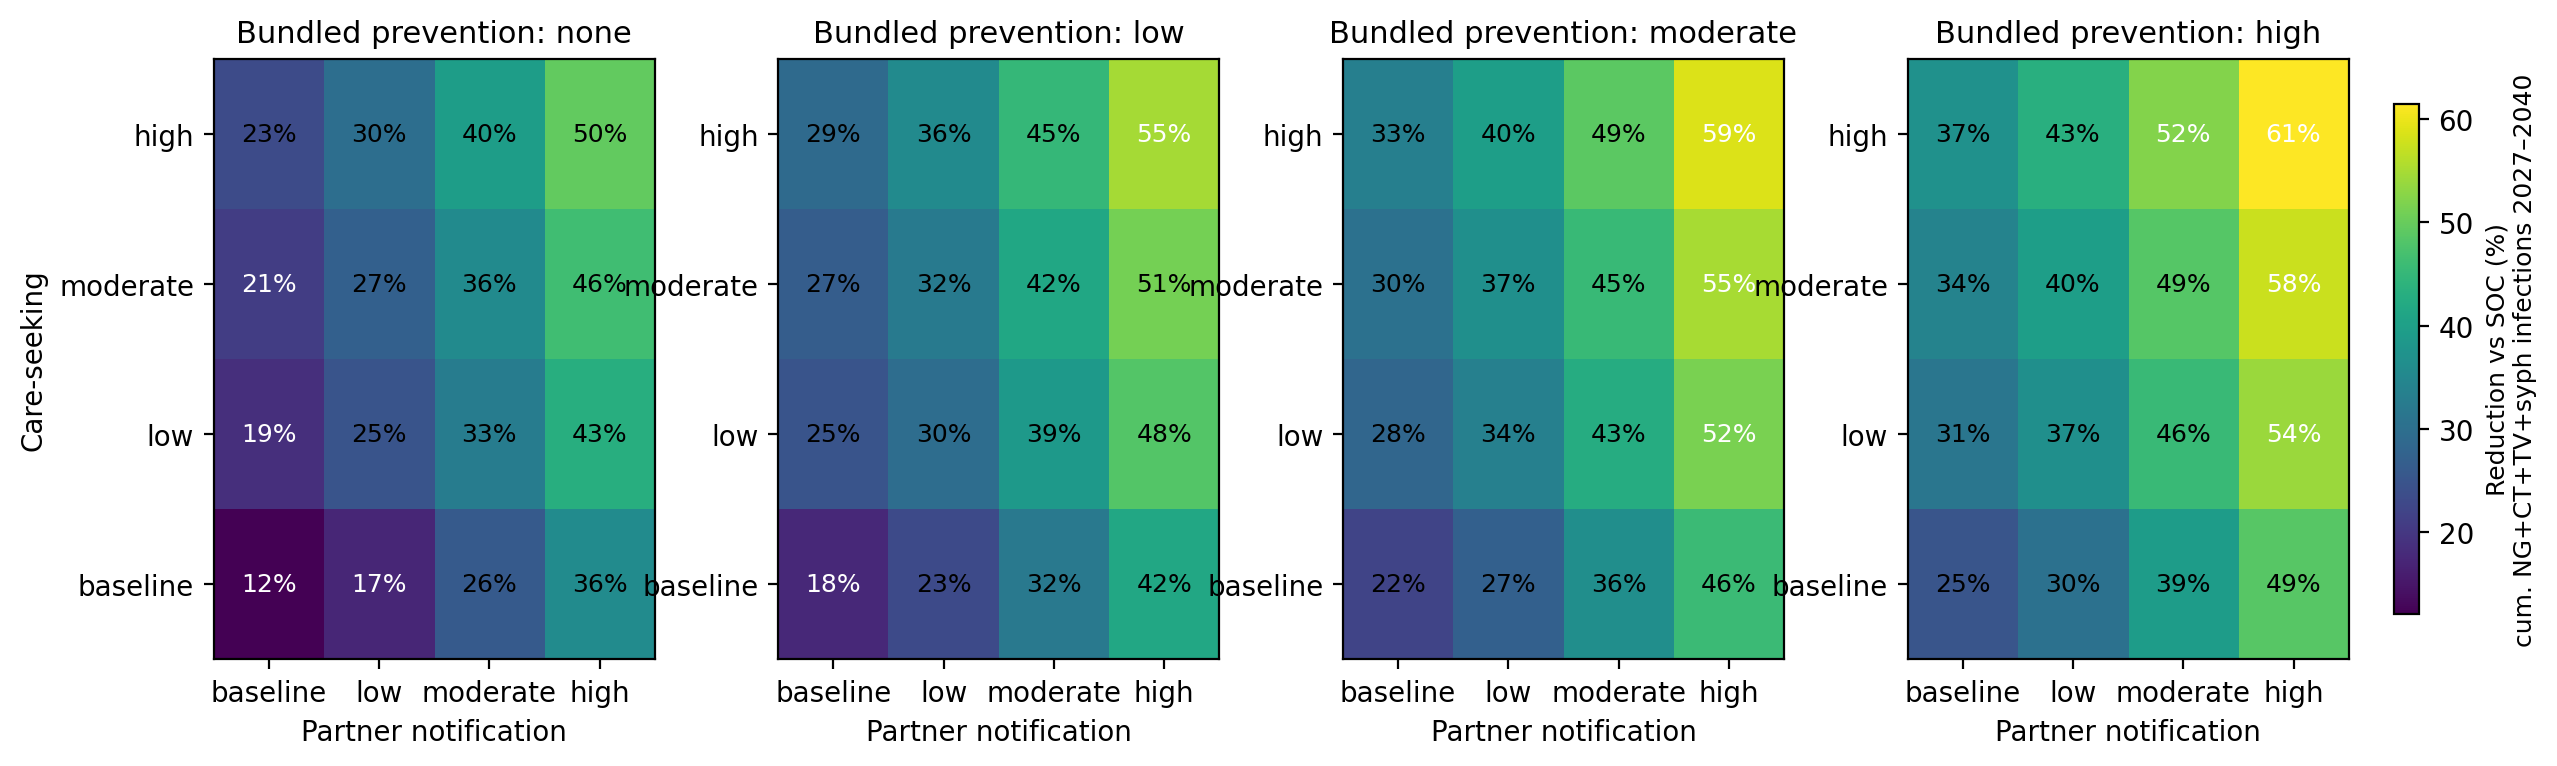
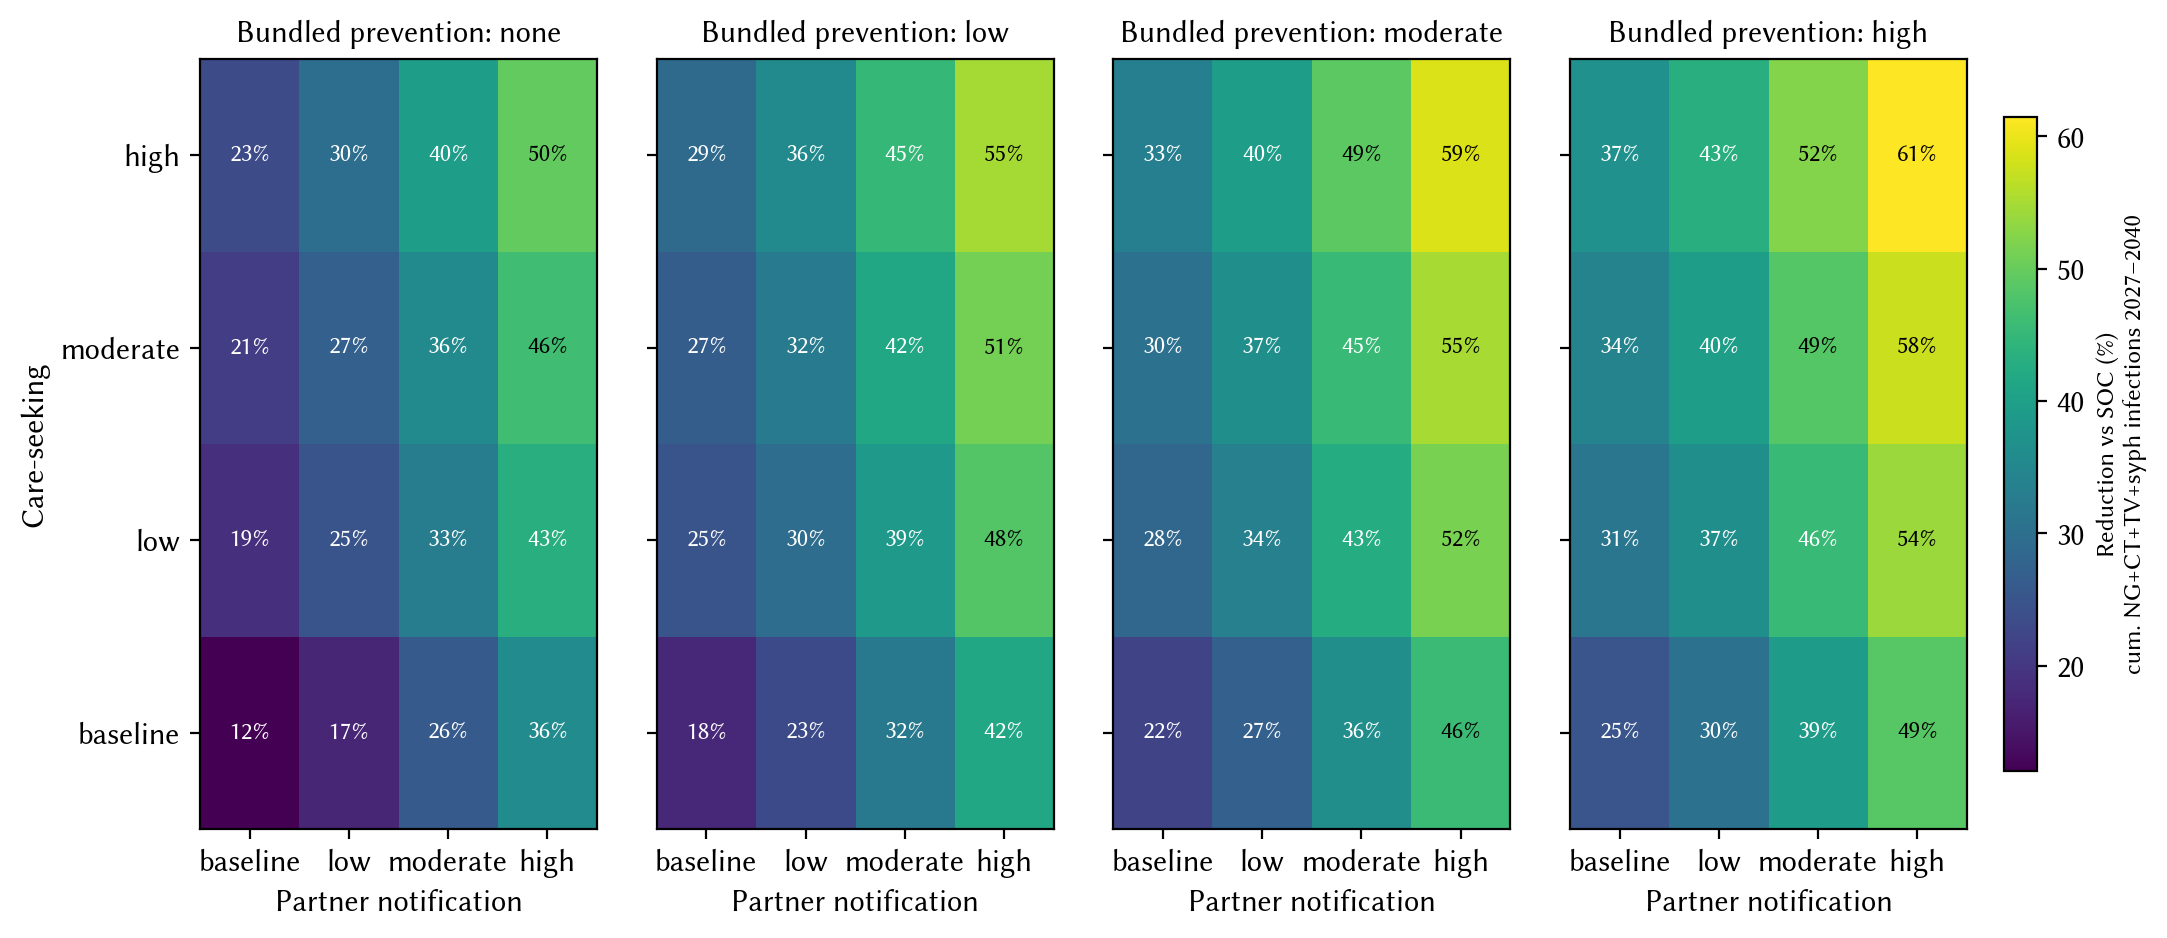
plot_slide12: Libertinus font, 12x5 figure, luminance-based text color
- Match sibling slide plots' font (Libertinus Sans via sciris).
- Resize to 12x5 inches.
- Only leftmost panel shows y-tick labels.
- Cell text color computed from the underlying rgba's luma so high-value
  yellow cells get black text instead of unreadable white.

Changed region(s): [[0.0, 0.03, 0.9894, 0.9909]]

diff --git a/plotting/plot_slide12.py b/plotting/plot_slide12.py
@@ -15,10 +15,12 @@ from pathlib import Path
 import matplotlib.pyplot as pl
 import numpy as np
 import pandas as pd
+import sciris as sc
 
 REPO = Path(__file__).resolve().parents[1]
 TS = REPO / 'results' / 'scenarios_timeseries.parquet'
 OUT_PNG = REPO / 'figures' / 'fig_slide12.png'
+FONT = str(REPO / 'assets' / 'LibertinusSans-Regular.otf')
 
 DISEASES = ('ng', 'ct', 'tv', 'syph')
 CARE_LEVELS = ('baseline', 'low', 'moderate', 'high')
@@ -38,14 +40,17 @@ def cumulative_by_arm(df):
 
 
 def main():
+    sc.fonts(add=FONT)
+    sc.options(font='Libertinus Sans', fontsize=11)
+
     df = pd.read_parquet(TS)
     arm = cumulative_by_arm(df)
     soc_total = float(arm.loc[arm.cell == 'SOC', 'cum_inf'].iloc[0])
     poc = arm[arm.poc == True].copy()
     poc['pct_reduction'] = 100.0 * (soc_total - poc['cum_inf']) / soc_total
 
-    fig, axes = pl.subplots(1, 4, figsize=(14.5, 3.9),
-                            gridspec_kw=dict(wspace=0.28))
+    fig, axes = pl.subplots(1, 4, figsize=(12, 5),
+                            gridspec_kw=dict(wspace=0.15))
     # Shared color scale across panels so panel-to-panel comparisons work.
     vmin = float(poc['pct_reduction'].min())
     vmax = float(poc['pct_reduction'].max())
@@ -63,7 +68,7 @@ def main():
                 .reindex(index=CARE_LEVELS, columns=PN_LEVELS))
         grids.append(g)
 
-    for ax, bp, g in zip(axes, BP_PANELS, grids):
+    for i_ax, (ax, bp, g) in enumerate(zip(axes, BP_PANELS, grids)):
         # origin='lower' puts row 0 (baseline care) at the bottom so care-seeking
         # increases as the eye moves upward.
         im = ax.imshow(g.to_numpy(), cmap=cmap, vmin=vmin, vmax=vmax,
@@ -71,18 +76,25 @@ def main():
         ax.set_xticks(range(len(PN_LEVELS)))
         ax.set_xticklabels(PN_LEVELS)
         ax.set_yticks(range(len(CARE_LEVELS)))
-        ax.set_yticklabels(CARE_LEVELS)
+        if i_ax == 0:
+            ax.set_yticklabels(CARE_LEVELS)
+        else:
+            ax.set_yticklabels([])
         ax.set_xlabel('Partner notification')
         ax.set_title(f'Bundled prevention: {bp}', fontsize=11)
-        # Cell annotations.
+        # Cell annotations. Text colour picked from the underlying rgba's luminance
+        # so it stays readable across the whole colormap (viridis is dark at low
+        # values, bright yellow at high — a single fixed colour won't work).
+        cmap_obj = pl.get_cmap(cmap)
         for i in range(g.shape[0]):
             for j in range(g.shape[1]):
                 v = g.iat[i, j]
                 if np.isnan(v):
                     continue
-                # Text colour: dark on light cells, light on dark cells.
-                mid = 0.5 * (vmin + vmax)
-                textc = 'white' if abs(v - mid) > 0.5 * (vmax - vmin) * 0.6 else 'black'
+                norm = (v - vmin) / (vmax - vmin) if vmax > vmin else 0.5
+                r, gr, b, _ = cmap_obj(norm)
+                lum = 0.299 * r + 0.587 * gr + 0.114 * b
+                textc = 'black' if lum > 0.55 else 'white'
                 ax.text(j, i, f'{v:.0f}%', ha='center', va='center',
                         fontsize=9, color=textc)
     axes[0].set_ylabel('Care-seeking')
